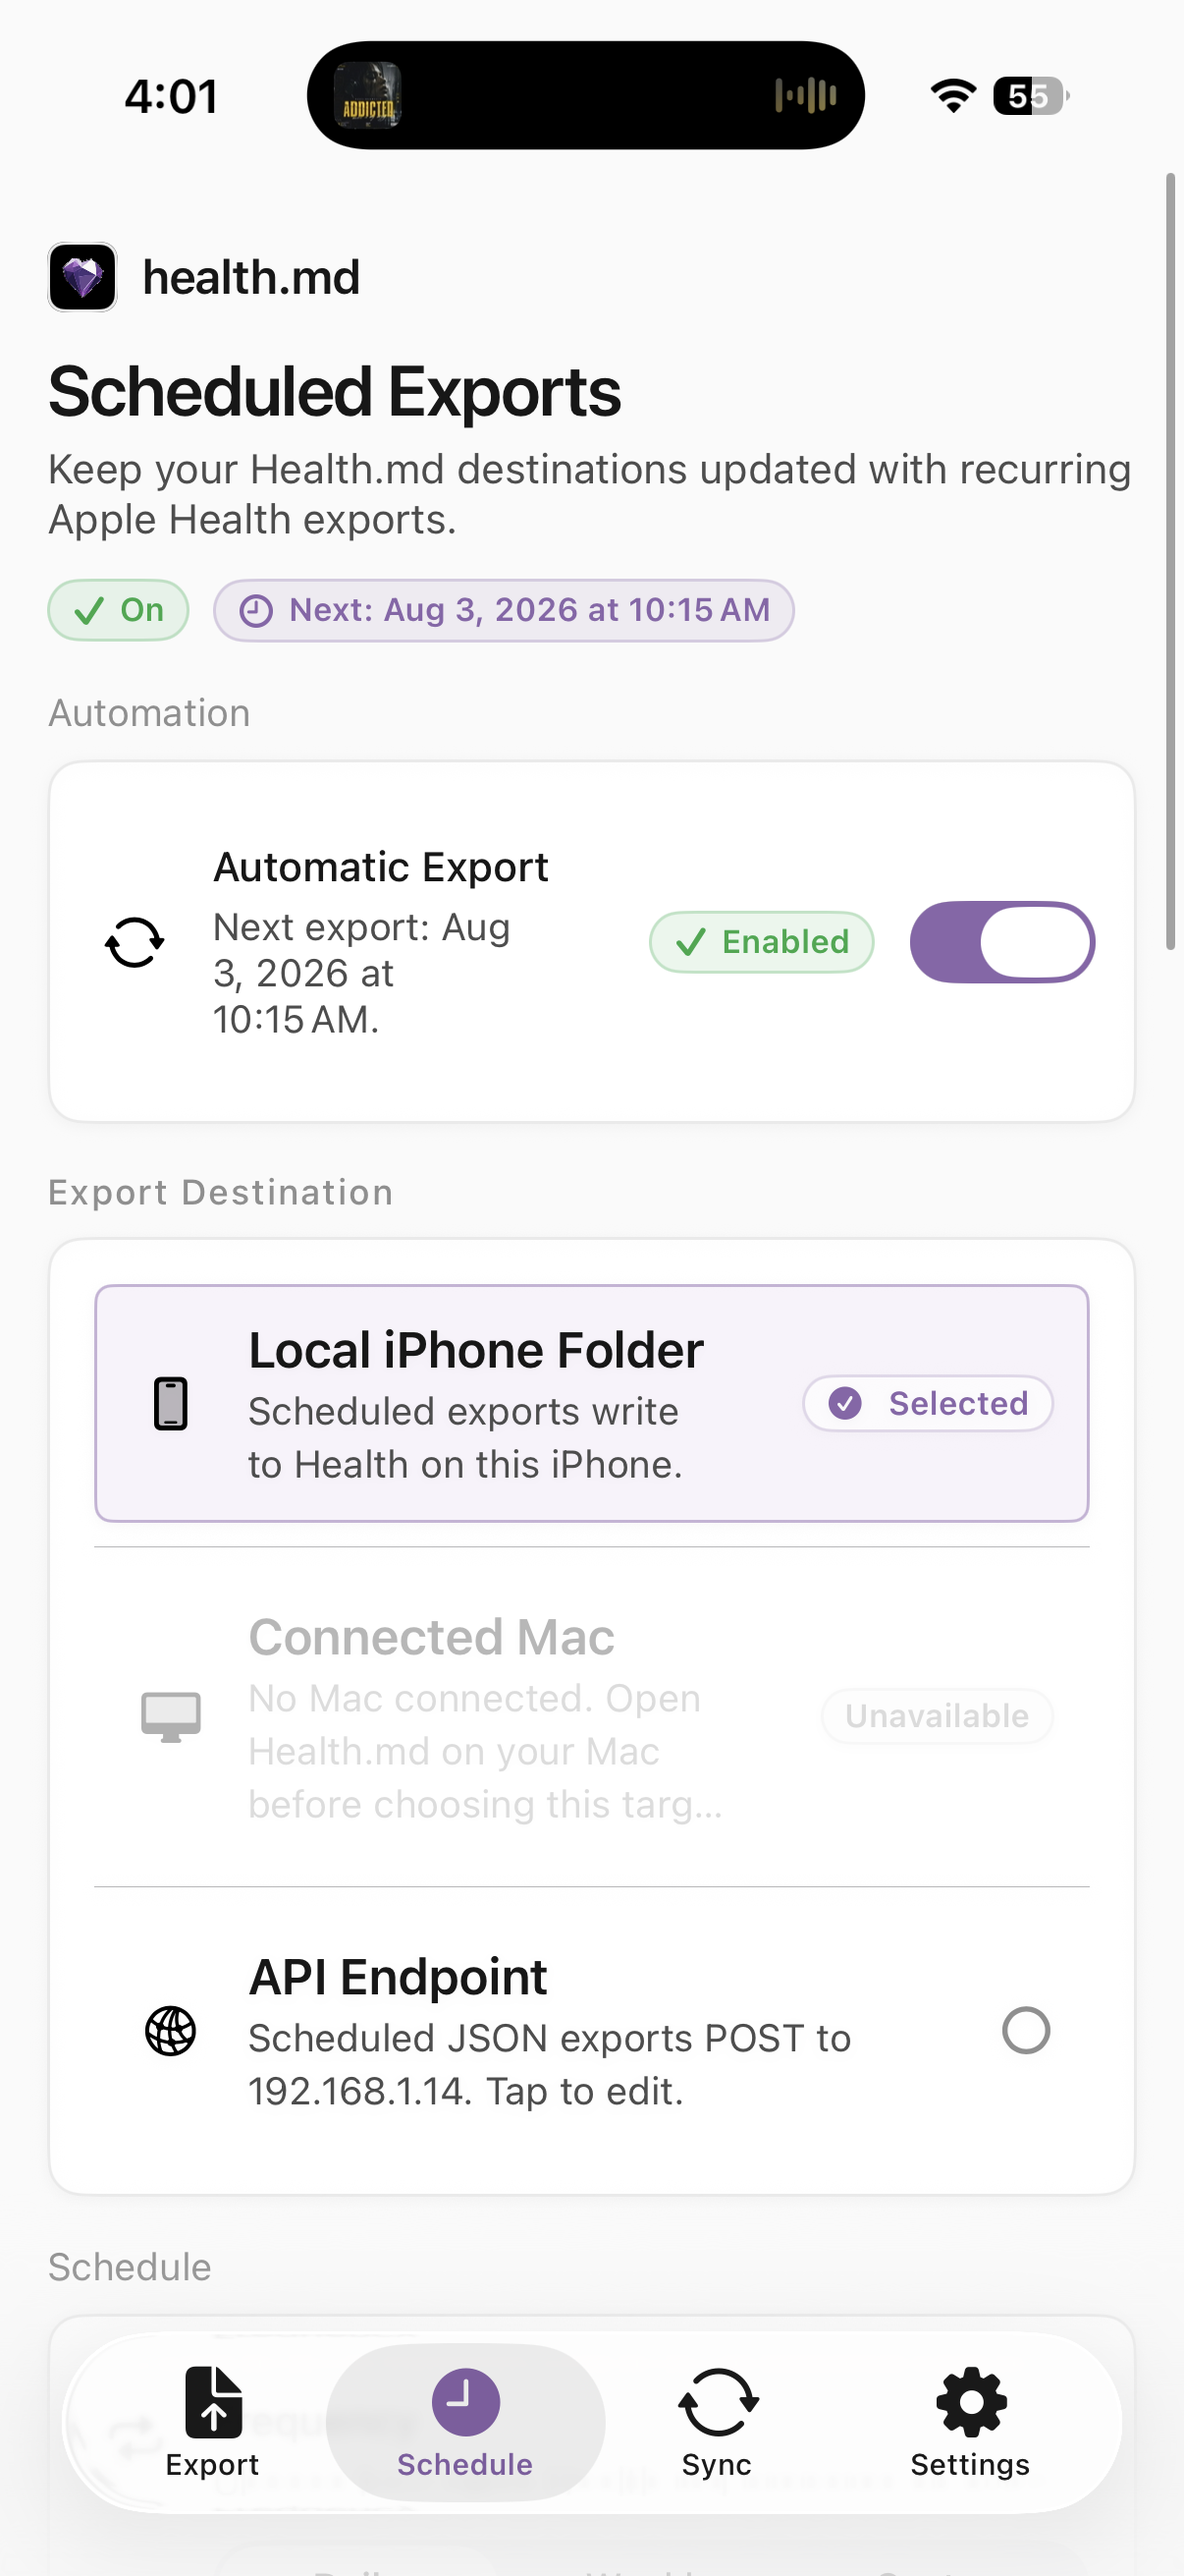
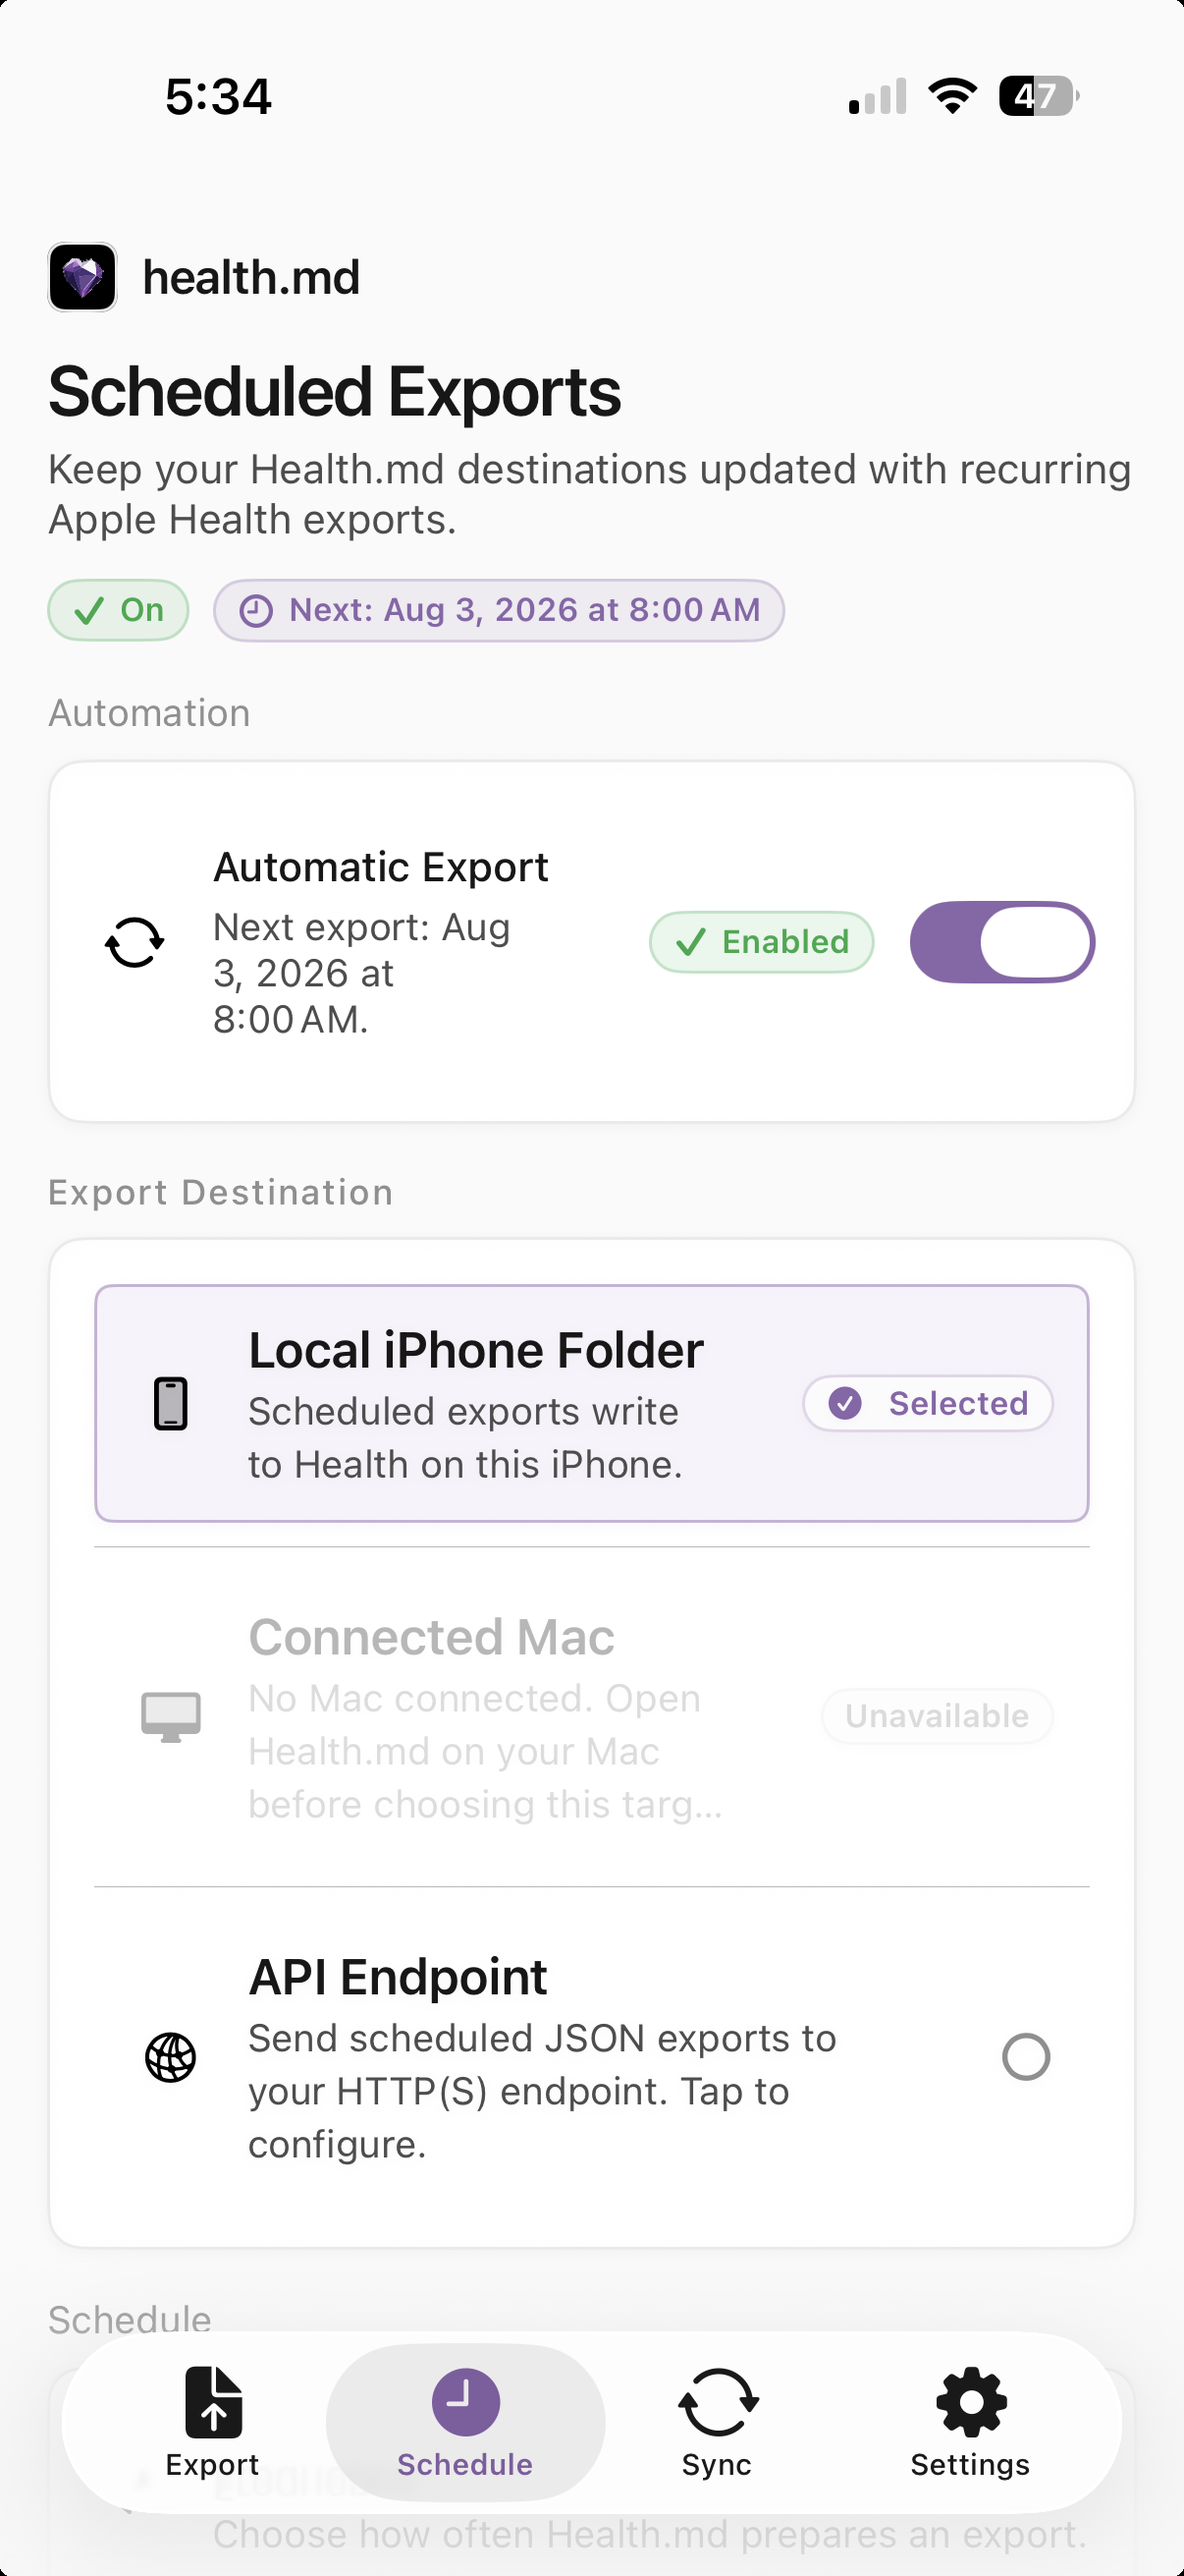
Refine scheduled exports website showcase

diff --git a/apps/website/assets/landing.css b/apps/website/assets/landing.css
@@ -1701,7 +1701,7 @@ main {
   pointer-events: none;
 }
 
-.schedule-routes path {
+.schedule-routes > path {
   stroke: #875ce5;
   stroke-width: 2;
   stroke-linecap: round;
@@ -1718,9 +1718,14 @@ main {
   opacity: 0.9;
 }
 
-.schedule-route-branch:nth-child(2) { animation-delay: -1.2s; }
-.schedule-route-branch:nth-child(3) { animation-delay: -2.4s; }
-.schedule-route-branch:nth-child(4) { animation-delay: -3.6s; }
+.schedule-routes marker path {
+  fill: #875ce5;
+  stroke: none;
+}
+
+.schedule-route-branch:nth-of-type(2) { animation-delay: -1.2s; }
+.schedule-route-branch:nth-of-type(3) { animation-delay: -2.4s; }
+.schedule-route-branch:nth-of-type(4) { animation-delay: -3.6s; }
 
 .schedule-clock,
 .schedule-export-node {
@@ -1738,13 +1743,16 @@ main {
 }
 
 .schedule-clock {
-  top: 104px;
+  top: 108px;
+  left: calc(34% - 30px);
+  width: 60px;
+  height: 60px;
   color: #8050df;
 }
 
 .schedule-clock svg {
-  width: 42px;
-  height: 42px;
+  width: 34px;
+  height: 34px;
   fill: none;
   stroke: currentColor;
   stroke-linecap: round;
@@ -1754,17 +1762,28 @@ main {
 
 .schedule-time {
   position: absolute;
-  top: 185px;
-  left: 22%;
-  width: 24%;
-  color: #7443d4;
-  font-size: 17px;
-  font-weight: 610;
-  text-align: center;
+  top: -12px;
+  left: -44px;
+  z-index: 4;
+  width: max-content;
+  padding: 4px 7px;
+  border: 1px solid #e3e0e9;
+  border-radius: 6px;
+  background: #fff;
+  color: #575765;
+  box-shadow: 0 5px 13px rgba(68, 43, 107, 0.07);
+  transform: rotate(-6deg);
+  font-size: 13px;
+  font-weight: 550;
+  line-height: 1;
+  white-space: nowrap;
 }
 
 .schedule-export-node {
   top: 282px;
+  border: 0;
+  background: transparent;
+  box-shadow: none;
 }
 
 .schedule-export-node img {
@@ -1775,19 +1794,28 @@ main {
 
 .schedule-export-label {
   position: absolute;
-  top: 360px;
-  left: 25%;
-  width: 18%;
+  top: -9px;
+  left: -30px;
+  z-index: 4;
+  width: max-content;
+  padding: 4px 7px;
+  border: 1px solid #e3e0e9;
+  border-radius: 6px;
+  background: #fff;
   color: #575765;
-  font-size: 16px;
-  font-weight: 520;
-  text-align: center;
+  box-shadow: 0 5px 13px rgba(68, 43, 107, 0.07);
+  transform: rotate(-7deg);
+  font-size: 13px;
+  font-weight: 550;
+  line-height: 1;
+  white-space: nowrap;
 }
 
 .schedule-file {
   position: absolute;
-  top: 408px;
+  top: 483px;
   left: 20%;
+  z-index: 3;
   width: 28%;
   display: grid;
   justify-items: center;
@@ -1806,6 +1834,9 @@ main {
   stroke-linecap: round;
   stroke-linejoin: round;
   stroke-width: 1.6;
+  border-radius: 4px;
+  background: #fdfdfd;
+  box-shadow: 0 0 0 7px #fdfdfd;
 }
 
 .schedule-destinations {
@@ -1866,13 +1897,13 @@ main {
 }
 
 .schedule-device-note {
-  position: absolute;
-  bottom: 8px;
-  left: 5%;
-  width: 58%;
+  width: 100%;
+  margin-top: 18px;
+  padding-top: 20px;
   display: flex;
   align-items: flex-start;
   gap: 9px;
+  border-top: 1px solid #dedee3;
   color: #676778;
   font-size: 12px;
   line-height: 1.4;
@@ -1901,7 +1932,7 @@ main {
   line-height: 1.08;
 }
 
-.schedule-copy > p {
+.schedule-copy > p:not(.schedule-device-note) {
   max-width: 410px;
   margin-top: 24px;
   color: #626273;
@@ -1978,7 +2009,7 @@ main {
 
   .schedule-phone { width: 280px; }
   .schedule-copy h2 { font-size: 48px; }
-  .schedule-copy > p { font-size: 17px; }
+  .schedule-copy > p:not(.schedule-device-note) { font-size: 17px; }
   .schedule-benefits { margin-top: 26px; }
   .schedule-benefits li { grid-template-columns: 50px 1fr; gap: 13px; padding: 16px 0; }
   .schedule-benefits li > span { width: 50px; height: 50px; }
@@ -2003,7 +2034,7 @@ main {
   }
 
   .schedule-copy h2 { font-size: clamp(52px, 8vw, 70px); }
-  .schedule-copy > p { max-width: 620px; }
+  .schedule-copy > p:not(.schedule-device-note) { max-width: 620px; }
   .schedule-benefits { max-width: 680px; }
   .schedule-phone-wrap { grid-column: 1; grid-row: 2; }
   .schedule-map { grid-column: 2; grid-row: 2; }
@@ -2020,18 +2051,18 @@ main {
 
   .schedule-copy { order: 1; }
   .schedule-copy h2 { font-size: clamp(43px, 13vw, 58px); line-height: 1.02; }
-  .schedule-copy > p { margin-top: 20px; font-size: 18px; }
+  .schedule-copy > p:not(.schedule-device-note) { margin-top: 20px; font-size: 18px; }
   .schedule-benefits { margin-top: 28px; }
   .schedule-benefits li { grid-template-columns: 48px 1fr; }
   .schedule-benefits li > span { width: 48px; height: 48px; }
   .schedule-phone-wrap { order: 2; }
   .schedule-phone { width: min(320px, calc(100vw - 40px)); }
-  .schedule-map { order: 3; width: min(500px, 100%); height: 620px; }
+  .schedule-map { order: 3; width: min(500px, 100%); height: 660px; }
   .schedule-frequency { left: 2%; width: 64%; min-width: 0; }
   .schedule-clock,
   .schedule-export-node { left: calc(34% - 30px); width: 60px; height: 60px; }
   .schedule-clock { top: 104px; }
-  .schedule-time { left: 19%; width: 30%; }
+  .schedule-time { top: -12px; left: -40px; width: max-content; }
   .schedule-export-node { top: 282px; }
   .schedule-destinations { width: 38%; }
   .schedule-destination { min-height: 84px; padding: 8px; }
@@ -2039,7 +2070,7 @@ main {
   .schedule-destination-logo img { width: 31px; height: 31px; }
   .schedule-destination strong { font-size: 11px; }
   .schedule-destination small { font-size: 9px; }
-  .schedule-device-note { width: 66%; font-size: 11px; }
+  .schedule-device-note { width: 100%; font-size: 11px; }
 }
 
 @media (max-width: 390px) {

diff --git a/apps/website/index.html b/apps/website/index.html
@@ -300,22 +300,27 @@
           <button type="button" data-schedule-frequency="monthly" aria-pressed="false">Monthly</button>
         </div>
 
-        <svg class="schedule-routes" viewBox="0 0 500 600" preserveAspectRatio="none" aria-hidden="true">
-          <path class="schedule-route-main" d="M170 62 V430"></path>
-          <path class="schedule-route-branch" d="M196 323 C260 323 246 205 324 205"></path>
-          <path class="schedule-route-branch" d="M196 323 C268 323 254 323 324 323"></path>
-          <path class="schedule-route-branch" d="M196 323 C260 323 246 441 324 441"></path>
+        <svg class="schedule-routes" viewBox="0 0 500 660" preserveAspectRatio="none" aria-hidden="true">
+          <defs>
+            <marker id="schedule-arrow" viewBox="0 0 10 10" refX="9" refY="5" markerWidth="5" markerHeight="5" orient="auto-start-reverse">
+              <path d="M 0 0 L 10 5 L 0 10 z"></path>
+            </marker>
+          </defs>
+          <path class="schedule-route-main" d="M170 62 V473"></path>
+          <path class="schedule-route-branch" marker-end="url(#schedule-arrow)" d="M184 495 C260 495 250 211 314 211"></path>
+          <path class="schedule-route-branch" marker-end="url(#schedule-arrow)" d="M184 495 C260 495 254 329 314 329"></path>
+          <path class="schedule-route-branch" marker-end="url(#schedule-arrow)" d="M184 495 C255 495 264 447 314 447"></path>
         </svg>
 
         <div class="schedule-clock" aria-hidden="true">
           <svg viewBox="0 0 24 24"><circle cx="12" cy="12" r="9"></circle><path d="M12 7v5l3 2"></path></svg>
+          <strong class="schedule-time" data-schedule-time>7:00 AM</strong>
         </div>
-        <strong class="schedule-time" data-schedule-time>7:00 AM</strong>
 
         <div class="schedule-export-node" aria-hidden="true">
           <img src="assets/app-icon/icon_80x80.png" width="58" height="58" decoding="async" alt="">
+          <strong class="schedule-export-label">Export</strong>
         </div>
-        <strong class="schedule-export-label">Export</strong>
 
         <div class="schedule-file" aria-live="polite">
           <svg viewBox="0 0 24 24" aria-hidden="true"><path d="M14 2H7a2 2 0 0 0-2 2v16a2 2 0 0 0 2 2h10a2 2 0 0 0 2-2V7Z"></path><path d="M14 2v5h5"></path></svg>
@@ -337,10 +342,6 @@
           </div>
         </div>
 
-        <p class="schedule-device-note">
-          <svg viewBox="0 0 24 24" aria-hidden="true"><rect x="5" y="10" width="14" height="11" rx="2"></rect><path d="M8 10V7a4 4 0 0 1 8 0v3"></path></svg>
-          Your iPhone must be unlocked when a scheduled export runs.
-        </p>
       </div>
 
       <div class="schedule-copy reveal">
@@ -361,6 +362,11 @@
             <div><strong>Saves where you want</strong><p>Choose a folder, Obsidian vault, or API.</p></div>
           </li>
         </ul>
+
+        <p class="schedule-device-note">
+          <svg viewBox="0 0 24 24" aria-hidden="true"><rect x="5" y="10" width="14" height="11" rx="2"></rect><path d="M8 10V7a4 4 0 0 1 8 0v3"></path></svg>
+          Your iPhone must be unlocked when a scheduled export runs.
+        </p>
       </div>
     </section>
   </main>
